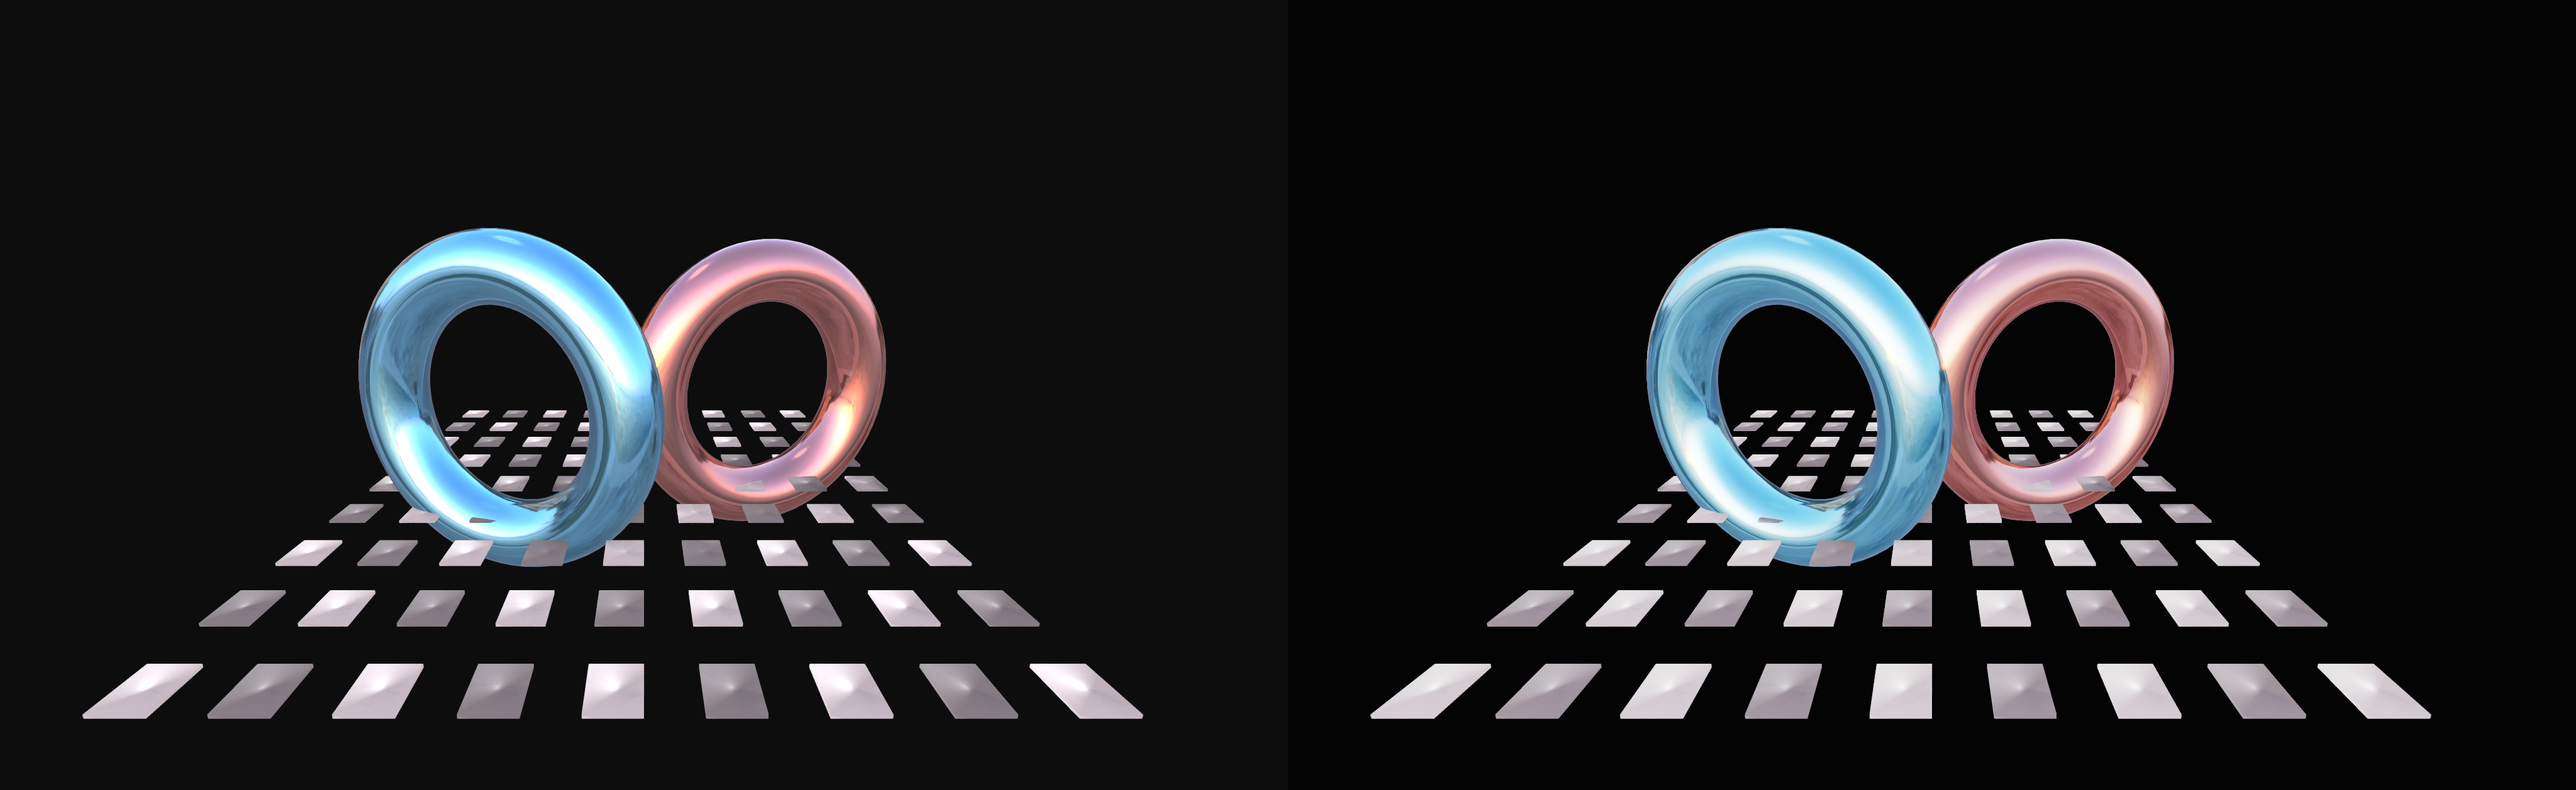
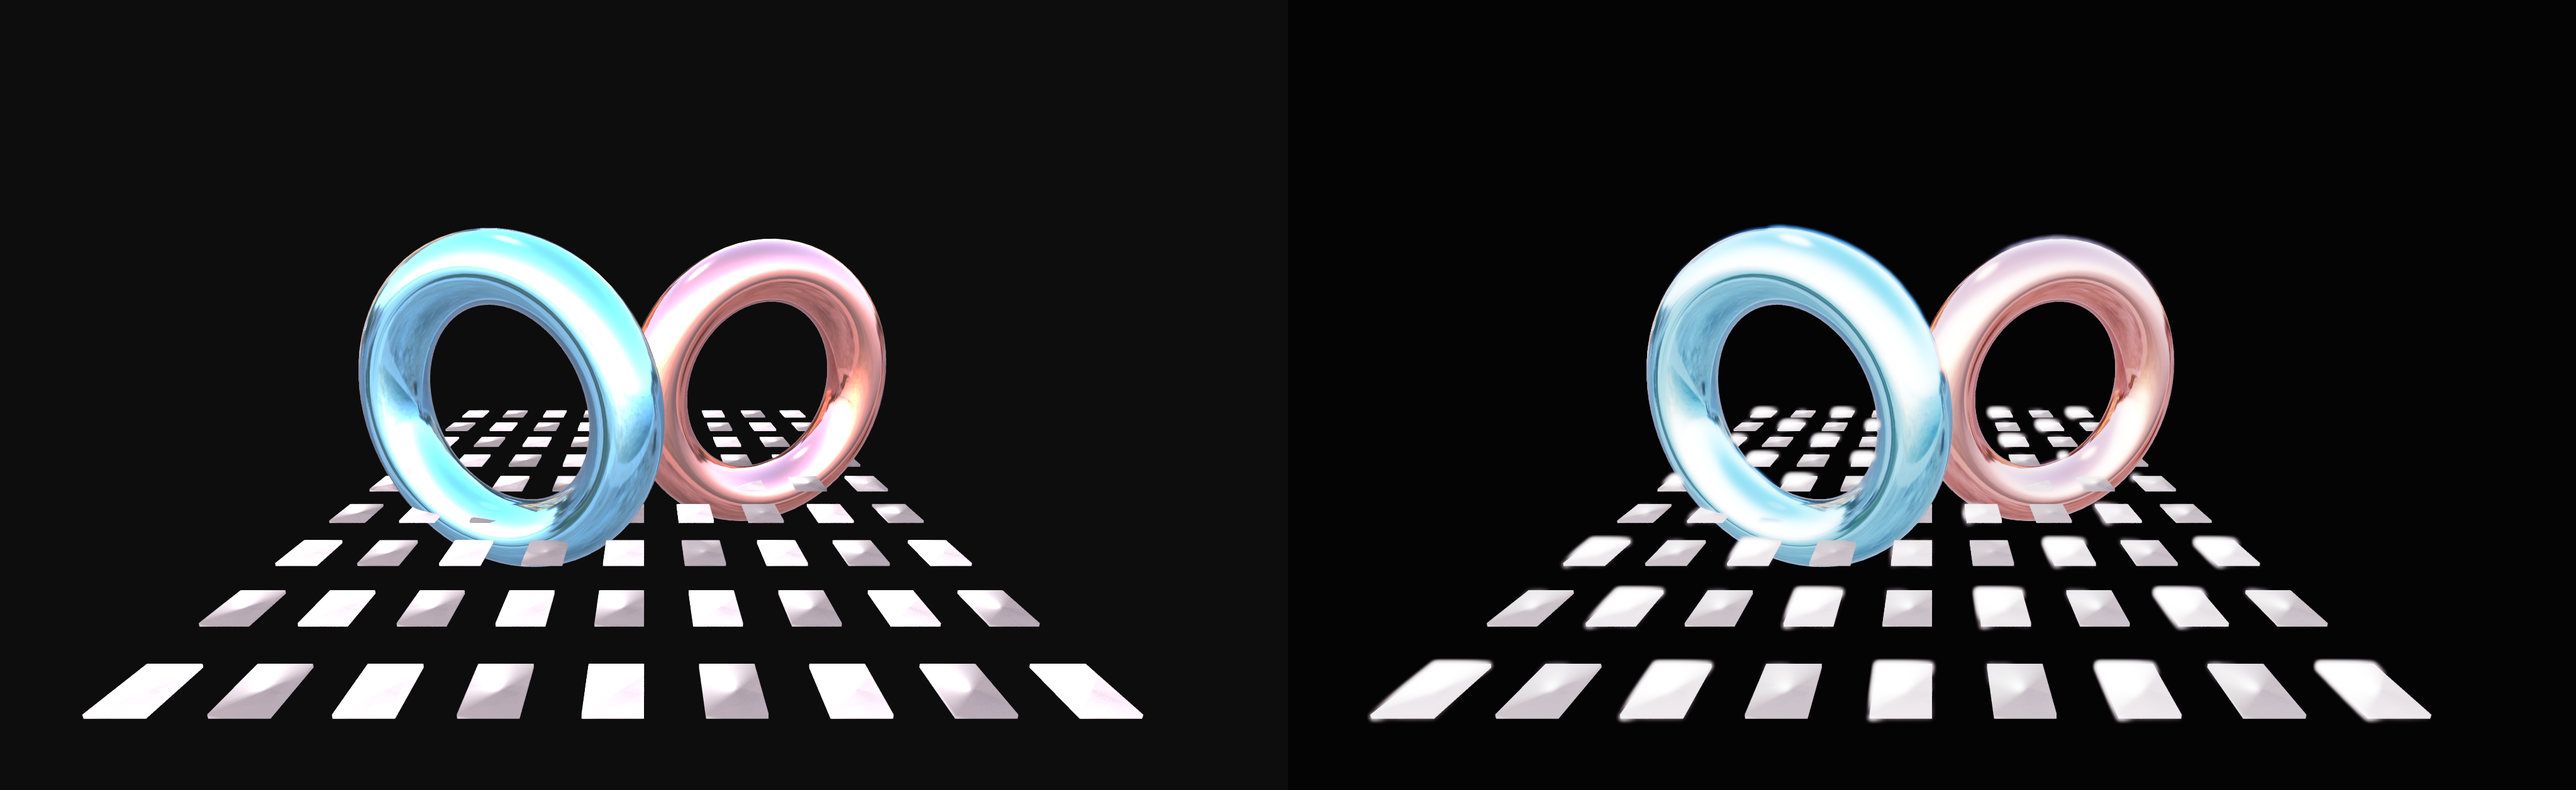
docs(fabricate_renderer): light the tonemap/bloom comparison hot enough to clip; match prose and alt

diff --git a/src/jvmMain/kotlin/afield/graphics/scene/fabricated/StandardRendererDocsHarness.kt b/src/jvmMain/kotlin/afield/graphics/scene/fabricated/StandardRendererDocsHarness.kt
@@ -800,14 +800,14 @@ object StandardRendererDocsHarness {
             renderer,
             StandardRenderer.Config(
                 environmentTexture = environment,
-                environmentStrength = 1.4f,
+                environmentStrength = 3.0f,
                 environmentRotation = 0.3f,
                 backgroundColor = srgbGray(0.05f)
             )
         )
         bundle.scene.camera.at.set(0f, 0.8f, -3.6f)
         bundle.scene.camera.target.set(0f, -0.15f, 0f)
-        bundle.scene.lightIntensity = 6.0f
+        bundle.scene.lightIntensity = 24.0f
         bundle.scene.shadowStrength = 0.8f
         bundle.scene.aoStrength = 0.7f
         bundle.scene.shadowExtent = 6.0f
@@ -839,7 +839,7 @@ object StandardRendererDocsHarness {
 
         // Left: raw HDR (highlights clip to white). Right: bloom + ACES tone mapping.
         val raw = captureScene(tempPng("fabricate-tonemap-off"), bundle, renderer) {}
-        bundle.addBloom(threshold = 1.0f, intensity = 0.85f, radius = 3.2f, renderer = renderer)
+        bundle.addBloom(threshold = 1.0f, intensity = 1.8f, radius = 4.0f, renderer = renderer)
         bundle.setToneMapping(FabricateToneMap.ACES, exposure = 1.0f, renderer = renderer)
         bundle.attachTo(renderer)
         val graded = captureScene(tempPng("fabricate-tonemap-on"), bundle, renderer) {}

diff --git a/public/docs/fabricate_renderer.md b/public/docs/fabricate_renderer.md
@@ -547,7 +547,7 @@ bundle.attachTo(renderer)
 bundle.present(renderer = renderer)
 ```
 
-The comparison below is the same strongly-lit scene captured twice: raw HDR on the left (highlights blow out to flat white), bloom + ACES on the right (highlights roll off and glow).
+The comparison below is the same strongly lit scene captured twice. On the left is the raw HDR output with no tone mapping: every floor tile clips to flat white, and the brightest parts of the rings go white too. On the right, with bloom and ACES, the tiles keep a little shading, each one carries a soft halo, and the rings hold more of their colour.
 
 <!--
 FIELD_TEST
@@ -567,7 +567,7 @@ expect:
         b: [0.55, 0.20, 0.40, 0.55]
         meanAbsDiffGt: 5
 -->
-```diffstatic_runner {data-lang=kotlin screenshot="assets/fabricate-tonemap-bloom.png" alt="the same pink and blue torii on a bright white tiled floor, rendered twice side by side. With tone mapping alone the two rings hold their colour and the tiles stay white without spreading. With bloom added the highlights bleed into soft haloes, the blue ring glows along its upper edge, the floor reads brighter overall, and small out-of-focus flecks of light scatter across the black above the scene" source-image="/tmp/docs-fabricate-tonemap-bloom-native.png" wait="30.0" timeout="240" execution="launch" embed=true graphics-context=true name="fabricate-tonemap-bloom" hidden=true fabricate-scene="tonemap-bloom"}
+```diffstatic_runner {data-lang=kotlin screenshot="assets/fabricate-tonemap-bloom.png" alt="the same pink and blue metal torii over a floor of white tiles, rendered twice side by side. Left, raw HDR: the tiles are flat white with hard edges and the rings are bright and pale. Right, bloom with ACES tone mapping: the tiles are slightly shaded and each has a soft glow around its edges, and the rings are a little deeper in colour on a darker background" source-image="/tmp/docs-fabricate-tonemap-bloom-native.png" wait="30.0" timeout="240" execution="launch" embed=true graphics-context=true name="fabricate-tonemap-bloom" hidden=true fabricate-scene="tonemap-bloom"}
 ```
 
 ## glTF loading and animation
